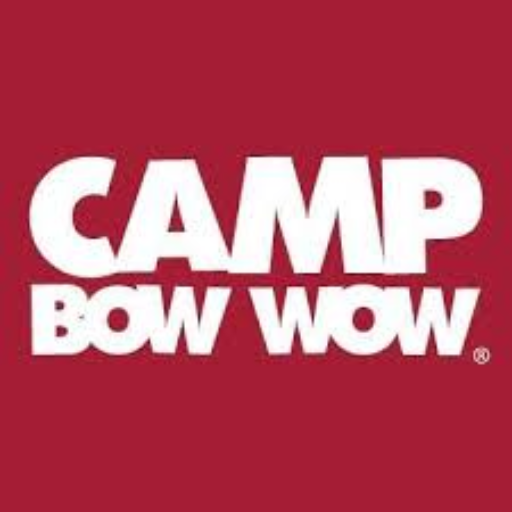
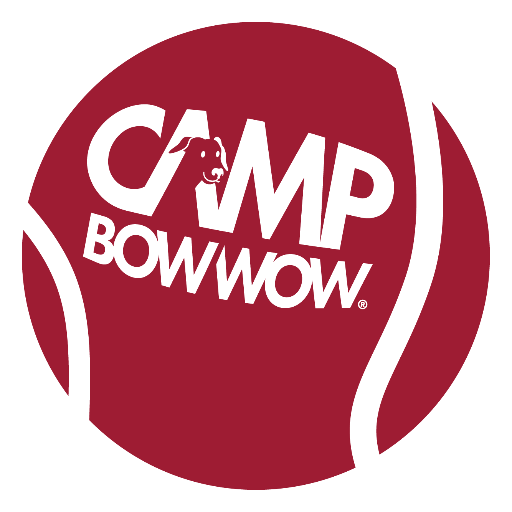
New branding and Weird Booking

diff --git a/app/Jobs/GoFetchBookingJob.php b/app/Jobs/GoFetchBookingJob.php
@@ -2,6 +2,7 @@
 
 namespace App\Jobs;
 
+use App\Models\Dog;
 use App\Models\DogService;
 use App\Models\Service;
 use App\Services\FetchDataService;
@@ -11,6 +12,7 @@ use Illuminate\Foundation\Bus\Dispatchable;
 use Illuminate\Foundation\Queue\Queueable;
 use Illuminate\Queue\InteractsWithQueue;
 use Illuminate\Queue\SerializesModels;
+use Illuminate\Support\Facades\Log;
 
 class GoFetchBookingJob implements ShouldQueue
 {
@@ -45,18 +47,23 @@ class GoFetchBookingJob implements ShouldQueue
         $response = $fetchDataService->fetchData(config('services.dd.uris.booking') . $this->bookingId, $payload)
             ->getData(true);
         if (isset($response['data']) && is_array($response['data']) && count($response['data']) > 0) {
-            $specialServiceMap  = Service::whereIn('category', config('services.dd.special_service_cats'))
+            $existingPetIds = Dog::pluck('pet_id')->flip(); // fast lookup
+            $specialServiceMap = Service::whereIn('category', config('services.dd.special_service_cats'))
                 ->pluck('id', 'dd_id');
             $dogs = collect($response['data'])->groupBy('contactId');
             foreach ($dogs as $petId => $services) {
-                foreach ($services as $service) {
-                    if($specialServiceMap->has($service['serviceItem']['id'])) {
-                        DogService::updateOrCreate(['pet_id' => $petId,
-                            'service_id' => $specialServiceMap[$service['serviceItem']['id']]], [
-                            'scheduled_start' => substr($service['startDatetime'], 0, 19),
-                            // Not actually UTC because who knows
-                        ]);
+                if (isset($existingPetIds[$petId])) {
+                    foreach ($services as $service) {
+                        if ($specialServiceMap->has($service['serviceItem']['id'])) {
+                            DogService::updateOrCreate(['pet_id' => $petId,
+                                'service_id' => $specialServiceMap[$service['serviceItem']['id']]], [
+                                'scheduled_start' => substr($service['startDatetime'], 0, 19),
+                                // Not actually UTC because who knows
+                            ]);
+                        }
                     }
+                } else {
+                    Log::info('Pet ID not present: ' . $petId);
                 }
             }
         }
